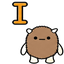
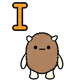
fix: maintain brown cursor aspect ratio and adjust star position

diff --git a/index.html b/index.html
@@ -1749,7 +1749,7 @@ body.loaded .hc>*:nth-child(7){animation-delay:.5s}
         starIcon: "assets/cursors/brown/04_unavailable.png",
         glow: "rgba(139, 69, 19, 0.8)",
         path: "assets/cursors/brown",
-        pos: { top: "15%", left: "55%" }
+        pos: { top: "20%", right: "22%" }
       }
     ];
 
